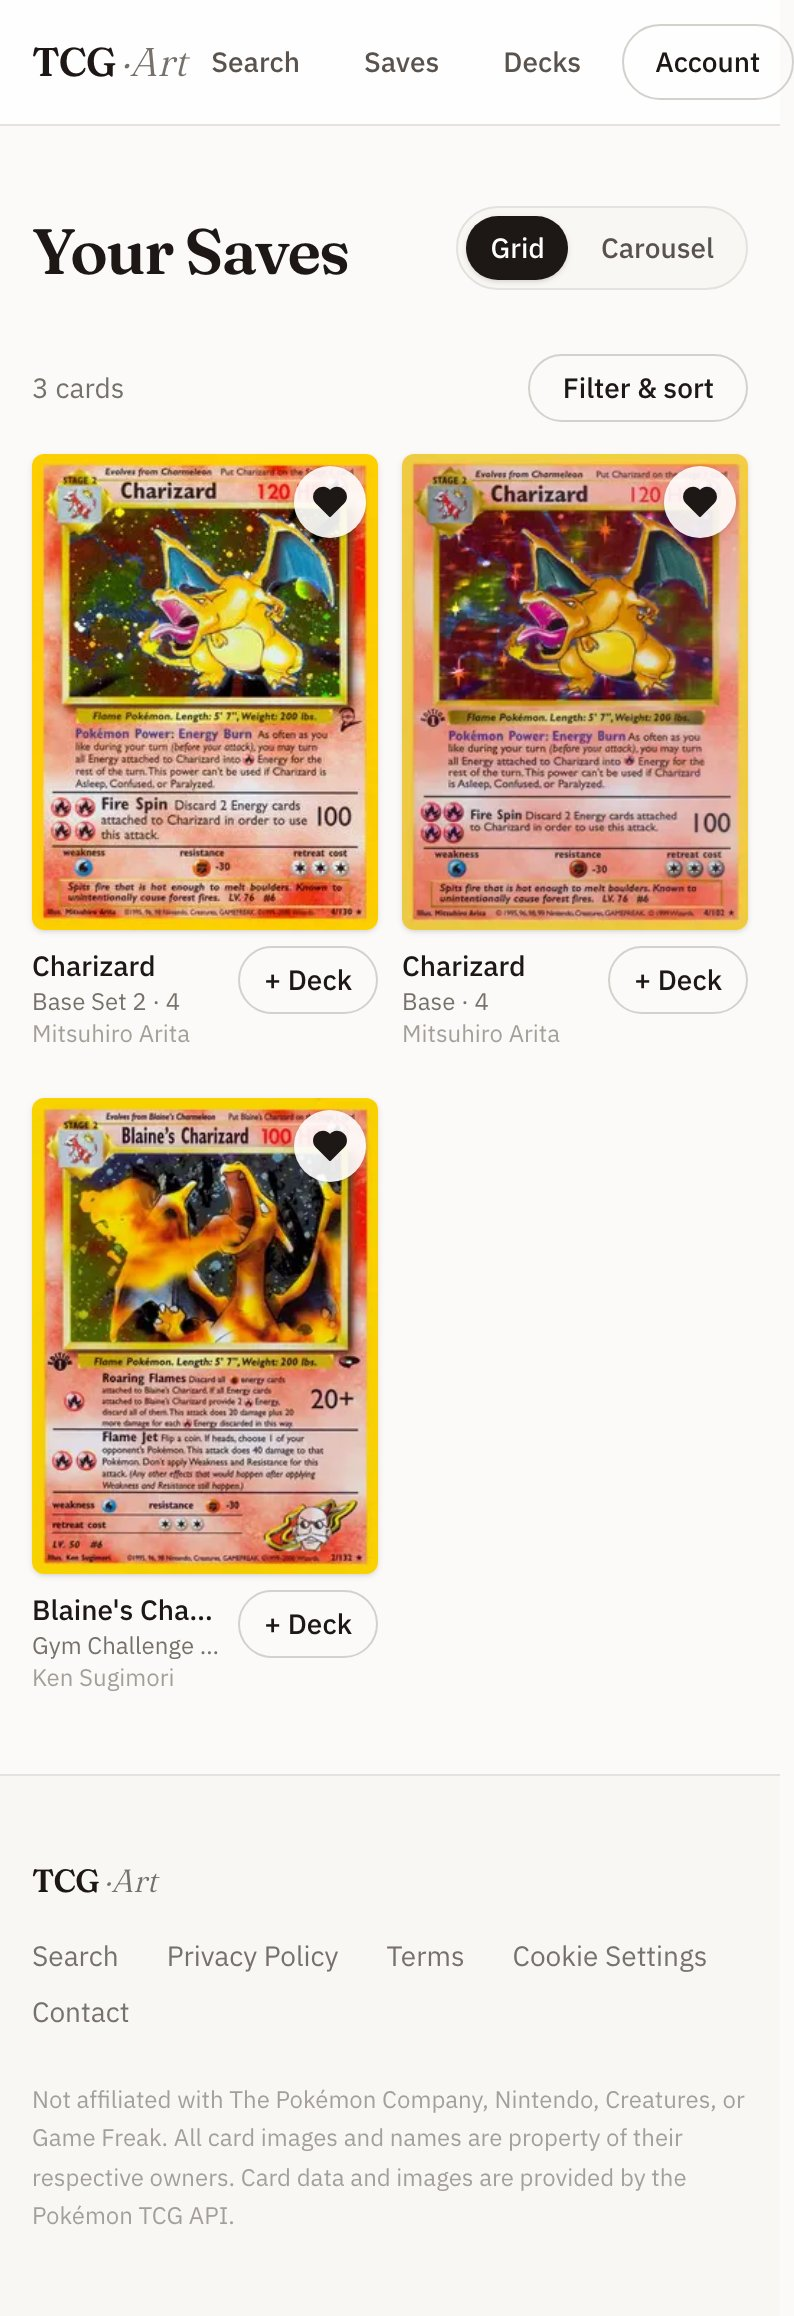
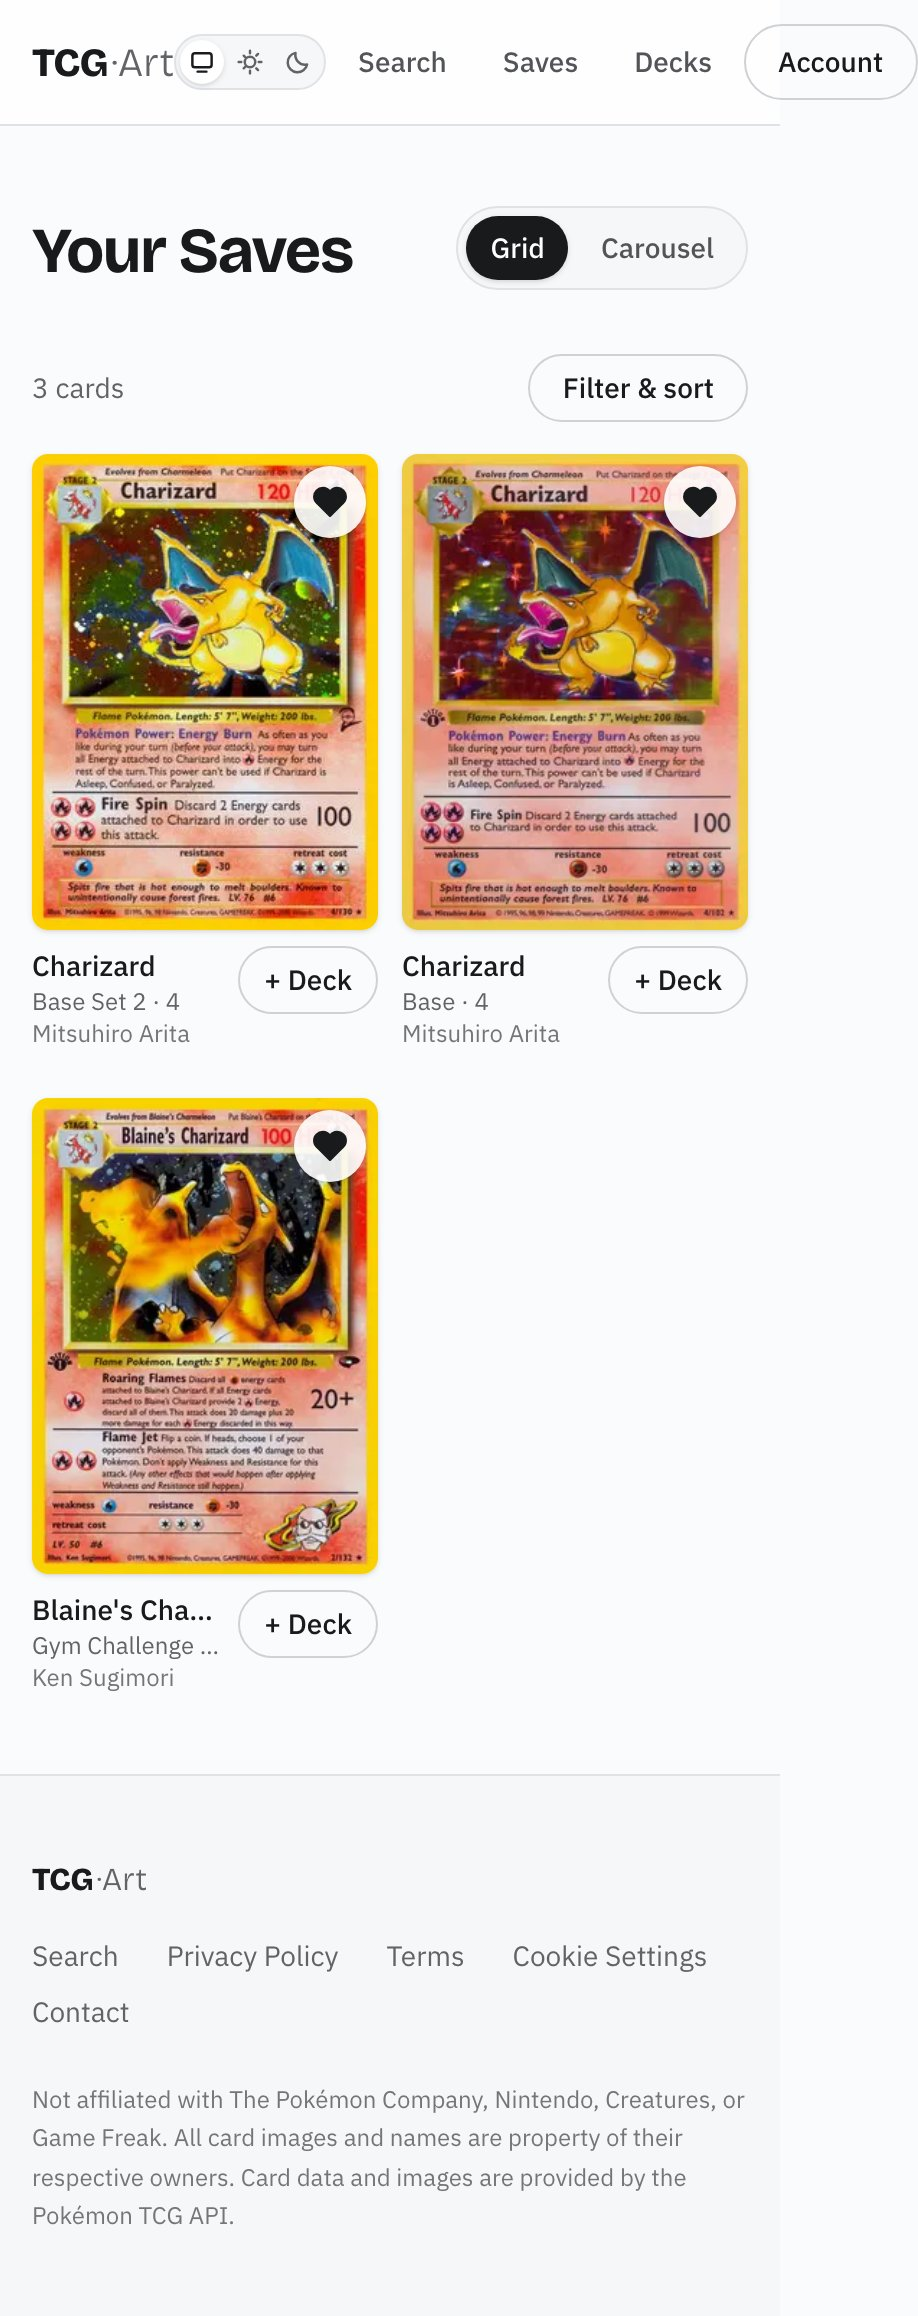
address: adopt variant-B type-color tokens on facet chips, extend theme guard to saves/decks surfaces (#46)
Applied Type chips and the rail's type options wear the energy-type color
triples (routed through the TypeBadge module, the type-ramp boundary); new
surfaces' display headings move to the bold weight axis. theme-flows gains
the faceted-search surface and replaces its retired binder section with
saves (grid + carousel), decks, and deck detail audits in both themes,
desktop + mobile. Both-theme proof set committed under issue-46-theme-*;
saves/decks e2e re-run green post-merge with refreshed captures.

Claude-Session: https://claude.ai/code/session_01QGWzHpdottcq8G3tLMZFgi

diff --git a/app/components/cards/FacetControls.tsx b/app/components/cards/FacetControls.tsx
@@ -5,6 +5,7 @@ import { useEffect, useMemo, useRef, useState } from "react";
 
 import type { FacetGroupKey, FacetGroupView, SortKey } from "@/lib/facets";
 import { cn } from "@/lib/utils";
+import { typeChipClasses, typeSwatchClasses } from "../ui/TypeBadge";
 
 // Faceted filter + sort controls, following the established conventions:
 // desktop gets a left facet rail, mobile gets a bottom-sheet panel, applied
@@ -182,6 +183,18 @@ const FacetControls: React.FC<FacetControlsProps> = ({
                         data-testid={`${idPrefix}facet-${group.key}-${option.value}`}
                         className="h-4 w-4 shrink-0 accent-(--color-surface-inverse)"
                       />
+                      {/* Energy types speak in their own color, here as a
+                          compact swatch (type ramps are functional data ink,
+                          Type-group elements only). */}
+                      {group.key === "type" ? (
+                        <span
+                          aria-hidden
+                          className={cn(
+                            "h-2.5 w-2.5 shrink-0 rounded-pill",
+                            typeSwatchClasses(option.value),
+                          )}
+                        />
+                      ) : null}
                       <span className="truncate">{option.value}</span>
                     </span>
                     {showCounts ? (
@@ -230,7 +243,7 @@ const FacetControls: React.FC<FacetControlsProps> = ({
     <div className="flex flex-col gap-6 lg:flex-row lg:items-start lg:gap-10">
       <aside className="hidden lg:block lg:w-60 lg:shrink-0" aria-label="Filters">
         <div className="flex items-baseline justify-between pb-1">
-          <h2 className="font-display text-lg font-semibold text-foreground">Filters</h2>
+          <h2 className="font-display text-lg font-bold text-foreground">Filters</h2>
           {activeCount > 0 ? (
             <button
               type="button"
@@ -272,7 +285,14 @@ const FacetControls: React.FC<FacetControlsProps> = ({
                   onClick={() => toggleValue(group.key, value)}
                   data-testid={`chip-${group.key}-${value}`}
                   aria-label={`Remove filter ${group.label}: ${value}`}
-                  className="inline-flex items-center gap-1.5 rounded-pill border border-border bg-surface-muted px-3 py-1 text-sm text-foreground-secondary transition-colors hover:border-border-strong hover:text-foreground"
+                  className={cn(
+                    "inline-flex items-center gap-1.5 rounded-pill border px-3 py-1 text-sm transition-colors",
+                    // An applied Type chip wears its energy type's color (the
+                    // game-native coding); every other group stays neutral.
+                    group.key === "type"
+                      ? cn("font-semibold", typeChipClasses(value))
+                      : "border-border bg-surface-muted text-foreground-secondary hover:border-border-strong hover:text-foreground",
+                  )}
                 >
                   {value}
                   <span aria-hidden>×</span>
@@ -311,7 +331,7 @@ const FacetControls: React.FC<FacetControlsProps> = ({
             className="absolute inset-x-0 bottom-0 flex max-h-[80vh] flex-col rounded-t-card border-t border-border bg-surface"
           >
             <div className="flex items-center justify-between border-b border-border px-gutter py-3">
-              <h2 className="font-display text-lg font-semibold text-foreground">
+              <h2 className="font-display text-lg font-bold text-foreground">
                 Filter &amp; sort
               </h2>
               {activeCount > 0 ? (

diff --git a/app/saves/page.tsx b/app/saves/page.tsx
@@ -61,7 +61,7 @@ const SavesPage = async ({ searchParams }: SavesPageProps) => {
   if (items == null) {
     return (
       <main className="mx-auto flex w-full max-w-content flex-1 flex-col gap-8 px-gutter py-10">
-        <h1 className="font-display text-heading font-semibold tracking-tight text-foreground">
+        <h1 className="font-display text-heading font-bold tracking-tight text-foreground">
           Your Saves
         </h1>
         <div className={cn(cardVariants(), "p-8 text-foreground-muted")}>
@@ -98,7 +98,7 @@ const SavesPage = async ({ searchParams }: SavesPageProps) => {
   return (
     <main className="mx-auto flex w-full max-w-content flex-1 flex-col gap-8 px-gutter py-10">
       <header className="flex flex-wrap items-end justify-between gap-3">
-        <h1 className="font-display text-heading font-semibold tracking-tight text-foreground">
+        <h1 className="font-display text-heading font-bold tracking-tight text-foreground">
           Your Saves
         </h1>
         {items.length > 0 ? <ViewToggle view={view} params={params} /> : null}
@@ -122,7 +122,7 @@ const SavesPage = async ({ searchParams }: SavesPageProps) => {
             <path d="M19.5 12.6 12 20l-7.5-7.4a5 5 0 1 1 7-7.1l.5.5.5-.5a5 5 0 1 1 7 7.1Z" />
           </svg>
           <div className="flex flex-col gap-1">
-            <h2 className="font-display text-lg font-semibold text-foreground">
+            <h2 className="font-display text-lg font-bold text-foreground">
               Nothing saved yet
             </h2>
             <p className="max-w-sm text-foreground-muted">

diff --git a/app/decks/[id]/page.tsx b/app/decks/[id]/page.tsx
@@ -96,7 +96,7 @@ const DeckPage = async ({ params, searchParams }: DeckPageProps) => {
       <header className="flex flex-wrap items-end justify-between gap-4">
         <div className="flex flex-col gap-2">
           <h1
-            className="font-display text-heading font-semibold tracking-tight text-foreground"
+            className="font-display text-heading font-bold tracking-tight text-foreground"
             data-testid="deck-title"
           >
             {deck.name}
@@ -114,7 +114,7 @@ const DeckPage = async ({ params, searchParams }: DeckPageProps) => {
           data-testid="deck-empty"
         >
           <div className="flex flex-col gap-1">
-            <h2 className="font-display text-lg font-semibold text-foreground">
+            <h2 className="font-display text-lg font-bold text-foreground">
               This deck is empty
             </h2>
             <p className="max-w-sm text-foreground-muted">
@@ -177,7 +177,7 @@ const DeckPage = async ({ params, searchParams }: DeckPageProps) => {
       ) : null}
 
       <section className="flex flex-col gap-4 border-t border-border pt-6" aria-label="Manage deck">
-        <h2 className="font-display text-lg font-semibold text-foreground">Manage</h2>
+        <h2 className="font-display text-lg font-bold text-foreground">Manage</h2>
         <form action={renameDeck} className="flex w-full max-w-md gap-3">
           <input type="hidden" name="deckId" value={deck.id} />
           <input

diff --git a/app/components/ui/TypeBadge.tsx b/app/components/ui/TypeBadge.tsx
@@ -20,6 +20,32 @@ const TYPE_CLASSES: Record<string, string> = {
   Colorless: "border-type-colorless-border bg-type-colorless-subtle text-type-colorless-strong",
 };
 
+// Small round swatch for compact type-meaningful elements (the Type facet's
+// option list) where a full badge per row would shout. Uses the -border step:
+// saturated enough to read as the type's hue at 10px in both themes.
+const TYPE_SWATCH_CLASSES: Record<string, string> = {
+  Grass: "bg-type-grass-border",
+  Fire: "bg-type-fire-border",
+  Water: "bg-type-water-border",
+  Lightning: "bg-type-lightning-border",
+  Psychic: "bg-type-psychic-border",
+  Fighting: "bg-type-fighting-border",
+  Darkness: "bg-type-darkness-border",
+  Metal: "bg-type-metal-border",
+  Fairy: "bg-type-fairy-border",
+  Dragon: "bg-type-dragon-border",
+  Colorless: "bg-type-colorless-border",
+};
+
+// Classes for a type-colored chip/swatch outside the badge itself; keeping
+// every consumer of the type ramps routed through this module preserves the
+// "only type-meaningful elements" rule as a grep-able boundary.
+export const typeChipClasses = (type: string): string =>
+  TYPE_CLASSES[type] ?? TYPE_CLASSES.Colorless;
+
+export const typeSwatchClasses = (type: string): string =>
+  TYPE_SWATCH_CLASSES[type] ?? TYPE_SWATCH_CLASSES.Colorless;
+
 interface TypeBadgeProps {
   type: string;
   className?: string;

diff --git a/app/decks/page.tsx b/app/decks/page.tsx
@@ -33,7 +33,7 @@ const DecksPage = async () => {
   return (
     <main className="mx-auto flex w-full max-w-3xl flex-1 flex-col gap-8 px-gutter py-10">
       <header className="flex flex-col gap-2">
-        <h1 className="font-display text-heading font-semibold tracking-tight text-foreground">
+        <h1 className="font-display text-heading font-bold tracking-tight text-foreground">
           Your Decks
         </h1>
         <p className="max-w-xl text-foreground-muted">
@@ -65,7 +65,7 @@ const DecksPage = async () => {
         </div>
       ) : decks.length === 0 ? (
         <div className="flex flex-col gap-1 border-t border-border pt-6" data-testid="decks-empty">
-          <h2 className="font-display text-lg font-semibold text-foreground">No decks yet</h2>
+          <h2 className="font-display text-lg font-bold text-foreground">No decks yet</h2>
           <p className="max-w-sm text-foreground-muted">
             Create one above, or use “+ Deck” on any card in{" "}
             <Link href="/search" className="underline underline-offset-4 hover:text-foreground">
